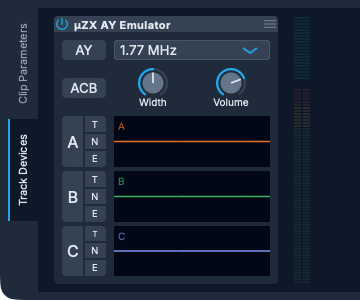
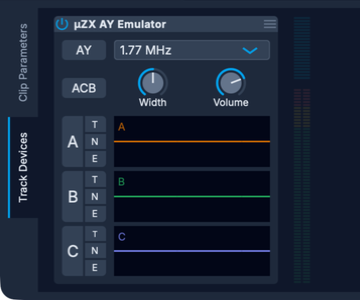
Type scale: small, body, menu and title sizes that stay sharp
Fonts in LookAndFeel.h names the point heights the UI uses: small 10.5, body 12,
menu 13.25, title 16, the readouts' 15.8 and the PSG hover's 11.75, at which
Inter's caps and x-height land on pixel edges on macOS. The fixed sizes, given as
JUCE heights (ascent plus descent) between 11 and 17, take the nearest step; text
sized by its control snaps down to a step. The guide's figures show the new
sizes.

diff --git a/src/gui/common/LookAndFeel.cpp b/src/gui/common/LookAndFeel.cpp
@@ -234,11 +234,11 @@ Font MoLookAndFeel::getSmallFont(float pointHeigth) {
 }
 
 Font MoLookAndFeel::getComboBoxFont(ComboBox& box) {
-    return withDefaultMetrics(FontOptions{jmin(16.0f, (float) box.getHeight() * 0.85f)});
+    return withDefaultMetrics(Fonts::ui(Fonts::fit(jmin(Fonts::body, (float) box.getHeight() * 0.7f))));
 }
 
 Font MoLookAndFeel::getPopupMenuFont() {
-    return withDefaultMetrics(FontOptions(17.0f));
+    return withDefaultMetrics(Fonts::ui(Fonts::menu));
 }
 
 float MoLookAndFeel::getPopupMenuItemFontProportion() {
@@ -359,7 +359,7 @@ void MoLookAndFeel::getIdealPopupMenuItemSize(const String& text, const bool isS
 Font MoLookAndFeel::getTextButtonFont(TextButton&, int buttonHeight) {
     const int capHeight = buttonHeight - 10;
     const float pointHeight = (float) capHeight / 0.75f; // approx cap height to point size
-    return getSmallFont(pointHeight);
+    return getSmallFont(Fonts::fit(pointHeight));
 }
 
 void MoLookAndFeel::drawButtonText(Graphics& g,
@@ -558,12 +558,11 @@ int MoLookAndFeel::getSliderThumbRadius(Slider& slider) {
 
 TextLayout MoLookAndFeel::layoutTooltipText(TypefaceMetricsKind metrics, const String& text, Colour colour) noexcept {
     const int maxToolTipWidth = 600;
-    const float tooltipFontSize = 14.0f;
 
     AttributedString s;
     s.setJustification(Justification::left);
-    s.setLineSpacing(tooltipFontSize * 0.2f); // 1.2 line spacing
-    s.append(text, FontOptions(tooltipFontSize).withMetricsKind(metrics), colour);
+    s.setLineSpacing(Fonts::body * 0.2f); // 1.2 line spacing
+    s.append(text, Fonts::ui(Fonts::body).withMetricsKind(metrics), colour);
 
     TextLayout tl;
     tl.createLayoutWithBalancedLineLengths(s, (float)maxToolTipWidth);
@@ -609,7 +608,7 @@ int MoLookAndFeel::getTabButtonBestWidth(TabBarButton& button, int tabDepth) {
 }
 
 Font MoLookAndFeel::getTabButtonFont(TabBarButton&, float) {
-    return withDefaultMetrics(FontOptions(13.0f));  // as the rows of the lists the tabs hold
+    return withDefaultMetrics(Fonts::ui(Fonts::small));
 }
 
 void MoLookAndFeel::drawTabButton(TabBarButton& button, Graphics& g, bool isMouseOver, bool isMouseDown) {
@@ -650,7 +649,7 @@ void MoLookAndFeel::drawGroupComponentOutline(Graphics& g, int width, int height
                                               const String& text, const Justification& position,
                                               GroupComponent& group) {
     const float textH = 11.0f;
-    const float fontPtSize = textH;
+    const float fontPtSize = Fonts::small;
     const float indent = 3.0f;
     const float textEdgeGap = 4.0f;
     auto cs = 5.0f;
@@ -725,7 +724,7 @@ void MoLookAndFeel::drawTimelineGrid(Graphics& g, const Rectangle<int>& bounds,
 ReadoutLookAndFeel::ReadoutLookAndFeel() = default;
 
 Font ReadoutLookAndFeel::getNumericReadoutFont() const {
-    return FontOptions("Iosevka Aile", "Semibold", 20.0f).withKerningFactor(-0.05f);
+    return FontOptions().withName("Iosevka Aile").withStyle("Semibold").withPointHeight(Fonts::readout).withKerningFactor(-0.05f);
 }
 
 Font ReadoutLookAndFeel::getSliderPopupFont(Slider& /*slider*/) {

diff --git a/src/plugins/uZX/notes_to_psg/NotesToPsgPluginUI.cpp b/src/plugins/uZX/notes_to_psg/NotesToPsgPluginUI.cpp
@@ -15,7 +15,7 @@ NotesToPsgPluginUI::TuningGroup::TuningGroup(NotesToPsgPluginUI& ui)
 {
     label.setText("Tuning preset:", dontSendNotification);
     label.setJustificationType(Justification::centredLeft);
-    label.setFont(FontOptions().withPointHeight(11.0f));
+    label.setFont(Fonts::ui(Fonts::small));
     label.setColour(Label::textColourId, Colors::Theme::textSecondary);
 
     ui.addAndMakeVisible(label);
@@ -35,17 +35,17 @@ NotesToPsgPluginUI::InfoGroup::InfoGroup(NotesToPsgPluginUI& ui)
 {
     plugin.staticParams.tuningTable.addListener(this);
 
-    tuningType.setFont(FontOptions().withPointHeight(11.0f));
+    tuningType.setFont(Fonts::ui(Fonts::small));
     tuningType.setColour(Label::textColourId, Colors::Theme::textSecondary);
 
     chipClockLabel.setText("Chip clock:", dontSendNotification);
     chipClockLabel.setJustificationType(Justification::centredLeft);
-    chipClockLabel.setFont(FontOptions().withPointHeight(11.0f));
+    chipClockLabel.setFont(Fonts::ui(Fonts::small));
     chipClockLabel.setColour(Label::textColourId, Colors::Theme::textSecondary);
 
     a4FrequencyLabel.setText("A4 frequency:", dontSendNotification);
     a4FrequencyLabel.setJustificationType(Justification::centredLeft);
-    a4FrequencyLabel.setFont(FontOptions().withPointHeight(11.0f));
+    a4FrequencyLabel.setFont(Fonts::ui(Fonts::small));
     a4FrequencyLabel.setColour(Label::textColourId, Colors::Theme::textSecondary);
 
     ui.addAndMakeVisible(tuningType);

diff --git a/src/gui/common/LookAndFeel.h b/src/gui/common/LookAndFeel.h
@@ -204,6 +204,30 @@ struct PSG {
 
 } // namespace Colors
 
+/** The type scale, in point heights, which set the em. FontOptions(h) sets ascent plus descent
+    instead, so its sizes fall between these. At small, body and title Inter's caps and x-height
+    land on pixel edges on macOS, on Retina screens and at 1x; 14 blurs its caps. */
+namespace Fonts {
+inline constexpr float small   = 10.5f;   // legends, clip headers, rulers, labels of grids and meters
+inline constexpr float body    = 12.0f;   // dialogs, tooltips, buttons
+inline constexpr float menu    = 13.25f;  // popup menus, where 12 reads small; sharp on Retina screens
+inline constexpr float title   = 16.0f;   // the empty window's hint
+inline constexpr float readout = 15.8f;   // the transport's numbers, Iosevka Aile Semibold
+inline constexpr float mono    = 11.75f;  // Iosevka Fixed as tall as body text
+
+/** Inter, the UI's font, at a point height of the scale. */
+inline FontOptions ui(float pointHeight) { return FontOptions().withPointHeight(pointHeight); }
+
+/** The largest step of the scale no taller than pointHeight, for text sized by its control;
+    below small, pointHeight itself, so a squeezed control still fits its text. */
+inline float fit(float pointHeight) {
+    for (float step : {title, body, small})
+        if (pointHeight >= step)
+            return step;
+    return pointHeight;
+}
+} // namespace Fonts
+
 class MoLookAndFeel : public LookAndFeel_V4 {
 public:
 

diff --git a/src/gui/timeline/PsgClipComponent.cpp b/src/gui/timeline/PsgClipComponent.cpp
@@ -660,8 +660,7 @@ public:
     }
 
     void setText(const std::vector<std::pair<String, Colour>>& runs) {
-        // Iosevka Fixed at the height of body text; 11.75 keeps its edges sharp on Retina screens
-        const Font font(FontOptions(Font::getDefaultMonospacedFontName(), 12.0f, Font::plain).withPointHeight(11.75f));
+        const Font font(FontOptions().withName(Font::getDefaultMonospacedFontName()).withPointHeight(Fonts::mono));
         AttributedString text;
         for (const auto& [run, colour] : runs)
             text.append(run, font, colour);
@@ -1071,7 +1070,7 @@ void PsgClipComponent::paintRegisters(Graphics& g, const PaintView& view) {
     const float laneHeight = std::round(height / numRegs);
     const bool showHexValues = vis.pixelsPerFrame >= 12.0f;
 
-    g.setFont(Font(FontOptions(12.0f).withStyle("Bold")));
+    g.setFont(Fonts::ui(Fonts::small).withStyle("Bold"));
 
     uZX::PsgRegsFrame regsFrame;
     vis.forEachVisibleFrame(frames, *psgClip, [&] (int, const PsgParamFrame& frame, float x, float width) {
@@ -1649,7 +1648,7 @@ struct LegendItem { const char* label; Colour color; LegendStyle style = LegendS
 constexpr int legendSpacing = 1;
 
 Font getLegendFont() {
-    return Font(FontOptions(11.0f).withStyle("Bold"));
+    return Fonts::ui(Fonts::small).withStyle("Bold");
 }
 
 /** Channel colors and the envelope-pitch appearance, with each swatch's width. */

diff --git a/src/gui/main/AboutDialog.cpp b/src/gui/main/AboutDialog.cpp
@@ -176,7 +176,7 @@ AboutDialogComponent::AboutDialogComponent()
     companyLabel_.setText(String::fromUTF8(ProjectInfo::companyName), dontSendNotification);
     companyLabel_.setJustificationType(Justification::centred);
     companyLabel_.setColour(Label::textColourId, Colors::Theme::textPrimary);
-    companyLabel_.setFont(FontOptions(16.0f, Font::plain));
+    companyLabel_.setFont(Fonts::ui(Fonts::body));
     addAndMakeVisible(companyLabel_);
 
     titleLabel_.setText(JUCEApplication::getInstance()->getApplicationName(), dontSendNotification);
@@ -217,7 +217,7 @@ AboutDialogComponent::AboutDialogComponent()
     infoLines.add("Includes ayumi library by Peter Sovietov (true-grue)");
     infoLines.add("Opens tracker modules with zxtune by Vitamin/CAIG");
 
-    infoText_.setFont(Font(FontOptions(14.0f, Font::plain)));
+    infoText_.setFont(Fonts::ui(Fonts::body));
     infoText_.setColour(Colors::Theme::textPrimary);
     infoText_.setJustification(Justification::centred);
     infoText_.setLineSpacing(1.5f);

diff --git a/src/gui/common/LookAndFeel.test.cpp b/src/gui/common/LookAndFeel.test.cpp
@@ -37,6 +37,18 @@ public:
             knob.setLookAndFeel(nullptr);
         }
 
+        beginTest("Text sized by its control snaps down to the type scale");
+        {
+            expectEquals(Fonts::fit(59.0f), Fonts::title);
+            expectEquals(Fonts::fit(13.3f), Fonts::body);
+            expectEquals(Fonts::fit(10.7f), Fonts::small);
+            expectEquals(Fonts::fit(8.0f), 8.0f);
+            TextButton button;
+            expectEquals(lf.getTextButtonFont(button, 64).getHeightInPoints(), Fonts::title, "a tall channel button");
+            expectEquals(lf.getTextButtonFont(button, 20).getHeightInPoints(), Fonts::body, "AY");
+            expectEquals(lf.getPopupMenuFont().getHeightInPoints(), Fonts::menu, "menus");
+        }
+
         beginTest("BinaryData contains font resources");
         {
             expect(BinaryData::InterRegular_ttfSize > 0, "Inter Regular font data should be non-empty");

diff --git a/src/gui/main/AboutDialog.h b/src/gui/main/AboutDialog.h
@@ -26,7 +26,7 @@ private:
     void invalidateLayout();
 
     juce::String text_;
-    juce::Font font_ { juce::FontOptions(14.0f, juce::Font::plain) };
+    juce::Font font_ { Fonts::ui(Fonts::body) };
     juce::Colour colour_ { Colors::Theme::textPrimary };
     juce::Justification justification_ { juce::Justification::centred };
     float lineSpacingFactor_ { 1.0f };
@@ -47,7 +47,7 @@ private:
     void advance(double timestampSec);
 
     const juce::String text_;
-    const juce::Font font_ { juce::FontOptions(14.0f, juce::Font::plain) };
+    const juce::Font font_ { Fonts::ui(Fonts::body) };
     static constexpr float fadeWidth = 32.0f;
     double startSec_ = -1.0, offset_ = -fadeWidth;  // the text rests clear of the left fade
     juce::VBlankAttachment vblank_ { this, [this](double t) { advance(t); } };  // last: detaches before the rest goes

diff --git a/src/gui/timeline/EditComponent.cpp b/src/gui/timeline/EditComponent.cpp
@@ -79,7 +79,7 @@ EditComponent::EditComponent(te::Edit& e, EditViewState& evs, EditComponentOptio
                                + describeOpenKey(edit),
                            dontSendNotification);
         emptyHint->setJustificationType(Justification::centred);
-        emptyHint->setFont(FontOptions(17.0f));
+        emptyHint->setFont(Fonts::ui(Fonts::title));
         emptyHint->setColour(Label::textColourId, Colors::Theme::textPrimary);
         emptyHint->setColour(Label::backgroundColourId, Colors::Theme::backgroundAlt);  // over the grid lines
         emptyHint->setInterceptsMouseClicks(false, false);

diff --git a/src/gui/timeline/ClipComponents.cpp b/src/gui/timeline/ClipComponents.cpp
@@ -116,7 +116,7 @@ Colour ClipHeader::getFill(Colour clipColour, bool selected) {
 }
 
 static Font getHeaderFont() {
-    return Font(FontOptions(11.0f));
+    return Fonts::ui(Fonts::small);
 }
 
 int ClipHeader::getWarningWidth(const String& warning) {
@@ -142,7 +142,7 @@ void ClipHeader::paint(Graphics& g) {
 
     auto row = getShownArea(*this).reduced(pad);
 
-    const Font nameFont(FontOptions(11.0f).withStyle("Bold"));
+    const Font nameFont(Fonts::ui(Fonts::small).withStyle("Bold"));
     const Font font = getHeaderFont();
     const auto name = clip->getName();
     const auto warnings = getWarnings();

diff --git a/src/gui/timeline/TrackComponents.cpp b/src/gui/timeline/TrackComponents.cpp
@@ -26,7 +26,7 @@ TrackHeaderComponent::TrackHeaderComponent(EditViewState& evs, te::Track::Ptr t)
     soloButton.setColour(TextButton::buttonOnColourId, Colors::Theme::soloed);
 
     // TODO move to L&f for Label font
-    trackName.setFont(trackName.getFont().withPointHeight(12.0f).withExtraKerningFactor(0.03f));
+    trackName.setFont(trackName.getFont().withPointHeight(Fonts::body).withExtraKerningFactor(0.03f));
 
     trackName.setText(t->getName(), dontSendNotification);
     trackName.setEditable(false, true, true);

diff --git a/src/gui/main/UpdateDialog.cpp b/src/gui/main/UpdateDialog.cpp
@@ -14,7 +14,7 @@ UpdateDialogComponent::UpdateDialogComponent(const String& appName,
     setOpaque(true);
 
     message_.setText("Checking for updates...", dontSendNotification);
-    message_.setFont(FontOptions(14.0f, Font::plain));
+    message_.setFont(Fonts::ui(Fonts::body));
     message_.setJustificationType(Justification::centred);
     message_.setMinimumHorizontalScale(1.0f);  // a long line wraps rather than narrows
     message_.setColour(Label::textColourId, Colors::Theme::textPrimary);

diff --git a/src/gui/main/PlayerDocument.cpp b/src/gui/main/PlayerDocument.cpp
@@ -65,8 +65,8 @@ private:
         Desktop::getInstance().getAnimator().fadeOut(this, 400);
     }
 
-    static Font nameFont() { return Font(FontOptions(15.0f)); }
-    static Font smallFont() { return Font(FontOptions(12.0f)); }
+    static Font nameFont() { return Fonts::ui(Fonts::body); }
+    static Font smallFont() { return Fonts::ui(Fonts::small); }
     static int namesWidth(const StringArray& names) {
         int width = gap * (names.size() - 1);
         for (auto& name : names)
